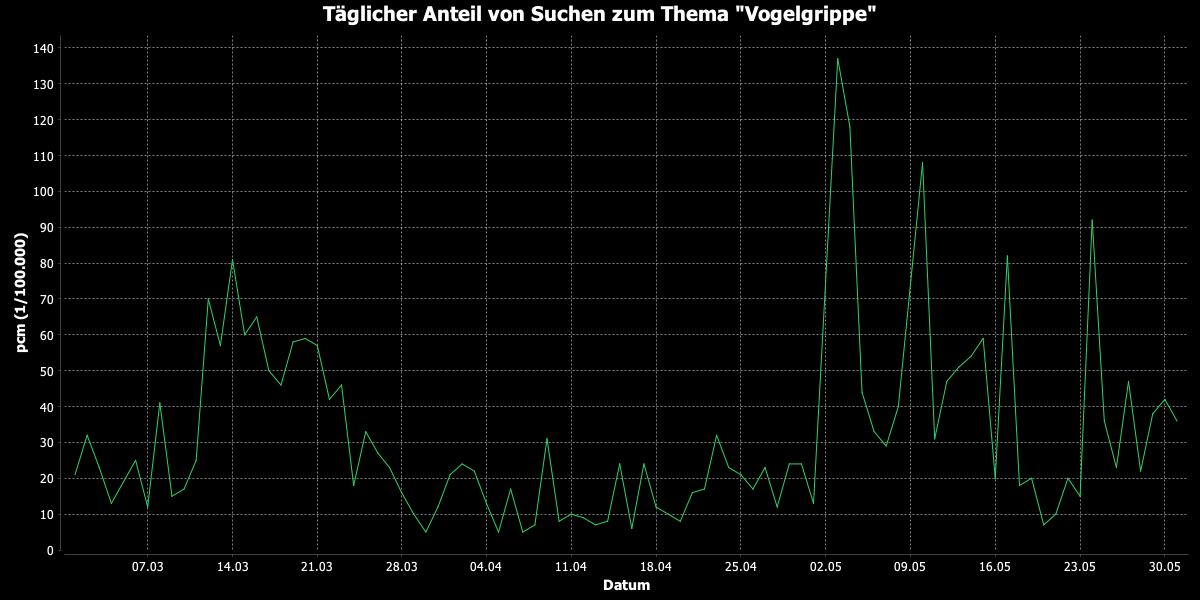
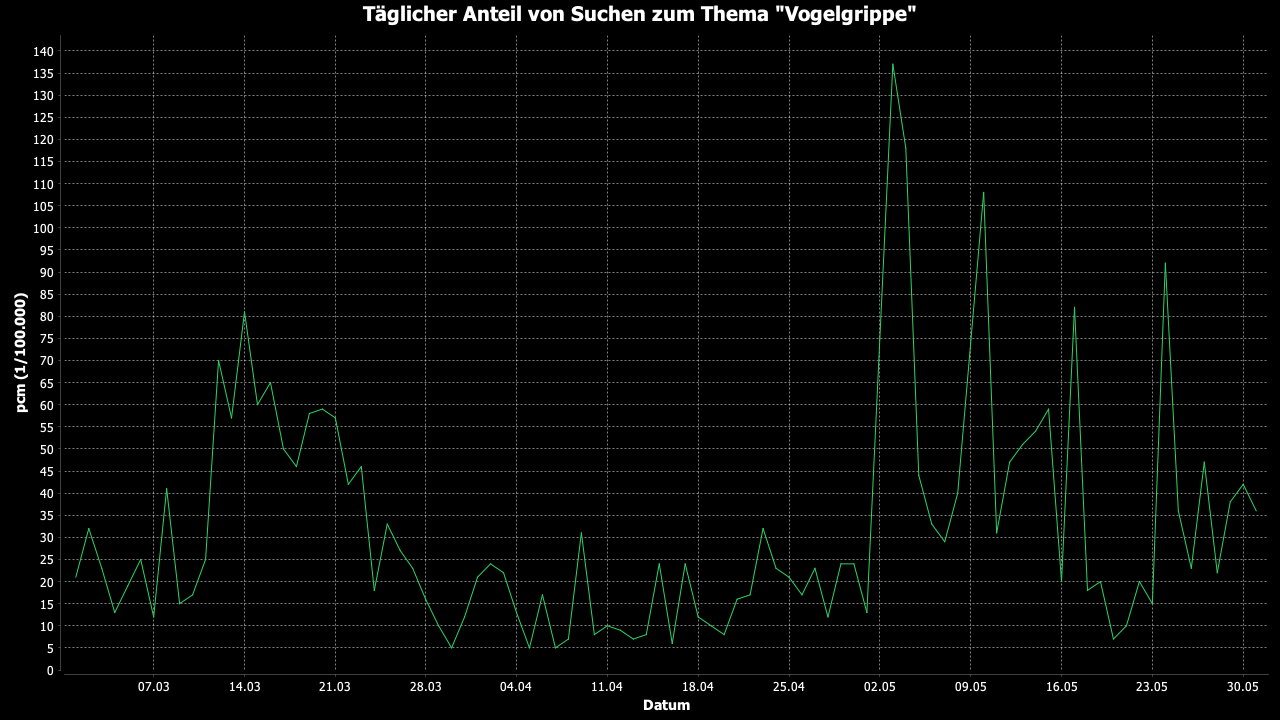
add README

diff --git a/src/birdflu/CreateTable.java b/src/birdflu/CreateTable.java
@@ -42,7 +42,8 @@ public final class CreateTable {
 	};
 	
 	/**
-	 * Convenience method for dropping and subsequent creation
+	 * Convenience method for dropping and subsequent creation of all tables, sequences
+	 * and views specified in the corresponding .txt-files
 	 */
 	
 	public static void init() {
@@ -53,11 +54,11 @@ public final class CreateTable {
 	/**
 	 * This method tries to drop all tables, sequences and views specified in the
 	 * corresponding .txt-file. If a table doesn't exist in the connected database
-	 * a SQL-Exception is thrown and the batch execution stops; perhaps leading
-	 * to missed commands, e.g. tables that are not dropped. Check database when an
-	 * exception is thrown, delete manually and call the init-method again. The
-	 * same exception will be thrown but the create-method will execute normally
-	 * afterwards (Alternatively call the create-method directly).
+	 * a SQL-Exception is thrown and the batch execution stops; perhaps leading to
+	 * missed commands, e.g. tables that are not dropped. Check the database when an
+	 * exception is thrown, drop the missed tables manually and call the init-method
+	 * again. The same exception will be thrown but the create-method will execute
+	 * normally afterwards. (Alternatively call the create-method directly)
 	 */
 	
 	public static void clear() {
@@ -80,7 +81,7 @@ public final class CreateTable {
 	}
 	
 	/**
-	 * Exception handling prior to the batch-method below.
+	 * Exception handling prior to the batch-method
 	 * 
 	 * @param filename - .txt-file containing the DDL-statements
 	 * @param query - query-object that will handle the execution of the statements

diff --git a/src/birdflu/ChartPlotter.java b/src/birdflu/ChartPlotter.java
@@ -42,11 +42,16 @@ import org.jfree.chart.ChartUtils;
  */
 
 public class ChartPlotter {
+
+	// Change these values as needed
+	public static int CHART_WIDTH = 1280;
+	public static int CHART_HEIGHT = 720;
+	public static Level LOG_LEVEL = Level.FINE;
 	
-	public static final boolean INIT_TABLES = false;
-	public static final int CHART_WIDTH = 1200;
-	public static final int CHART_HEIGHT = 600;
-	public static final Level LOG_LEVEL = Level.FINE;
+	// Do not change these constants
+	public static final int INIT = 1; // Drop tables and create them from scratch
+	public static final int CREATE = 2; // Don't drop, create tables from scratch
+	public static final int NO_INIT = 0; // Keep database, just create the charts
 	
 	public static void main(String[] args) {
 		Locale.setDefault(Locale.US);
@@ -66,11 +71,19 @@ public class ChartPlotter {
 		chrtLogger.addHandler(handler);
 		fileLogger.addHandler(handler);
 		
-		new ChartPlotter(INIT_TABLES).createCharts();
+		// Constructor's parameter must be either INIT, CREATE or NO_INIT (see above)
+		new ChartPlotter(NO_INIT).createCharts();
 	}
 	
-	public ChartPlotter(boolean createNewTables) {
-		if(createNewTables) { CreateTable.init(); }
+	public ChartPlotter(int init) {
+		switch(init) {
+			case 0: break;
+			case 1: CreateTable.init(); break;
+			case 2: CreateTable.create(); break;
+			default:
+				Logger.getLogger("File Logger").warning
+					("Wrong database initialization parameter");
+		}		
 	}
 	
 	/**

diff --git a/README.md b/README.md
@@ -1,0 +1,30 @@
+###### Deutsch (english version below)
+
+### Datenbanksysteme
+**Übungsprojekt im Sommersemester 2020 (2. Studienplansemester)**
+
+*Berliner Hochschule für Technik*  
+*Dozent: Aljoscha Marcel Everding*
+
+Erlernung von Aufbau und Wirkungsweise von Datenbanksystemen in einem vierköpfigen Team.
+Betrachten der Reaktionen auf die Ausbreitung der Vogelgrippe 2006 anhand des im selben Jahr [geleakten AOL Suchanfragendatensatz](https://en.wikipedia.org/wiki/AOL_search_log_release "Wikipedia: AOL search log release").
+Datendefinition, Datenbankanfragen, Datenmanipulation und Transaktionssteuerung mit Structured Query Language (SQL) sowie Erstellung von Diagrammen mit [JFreeChart](https://jfree.org/jfreechart/ "JFreeChart") in Java.
+Formulierung von Fragen in natürlicher Sprache und Übersetzung in SQL-Anfragen (siehe `input`), Erstellung eigener Relationen (siehe `tables`), Generierung von Diagrammen (siehe `output`).
+
+main-Methode in `src/birdflu/ChartPlotter.java`.
+
+
+###### English
+
+### Database Systems
+**Exercise project of spring/summer semester 2020 (2nd study plan semester)**
+
+*Berlin University of Applied Sciences and Technology*  
+*Lecturer: Aljoscha Marcel Everding*
+
+Learning of structure and operstion of database systems within a four-person team.
+Examining reactions on the 2006 bird flu outbreak on the basis of the [leaked AOL search log](https://en.wikipedia.org/wiki/AOL_search_log_release "Wikipedia: AOL search log release") of the same year.
+Data definition, queries, manipulation and transaction control using Structured Query Language (SQL) as well as chart plotting using [JFreeChart](https://jfree.org/jfreechart/ "JFreeChart") in Java.
+Formulation of questions in natural language and translation to SQL-queries (see `input`), creation of own relations (see `tables`), generation of charts (see `output`).
+
+main-method in `src/birdflu/ChartPlotter.java`.
